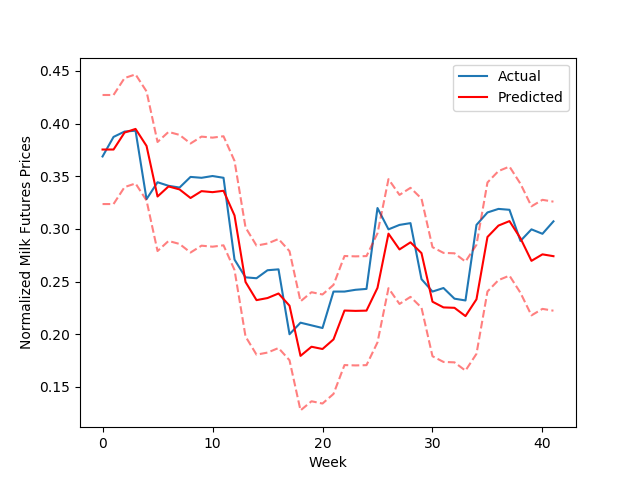
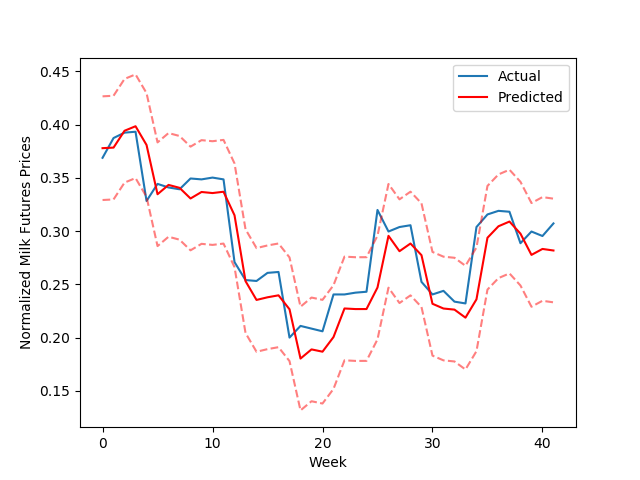
Adding Images

diff --git a/README.md b/README.md
@@ -86,7 +86,7 @@ The boxplot for Neurons does not show a clearly superior parameter setting.  The
 
 ![RNN Fit](https://github.com/FawcettB98/Milk_Futures/blob/master/images/rnn_act_v_pred.png)
 
-This plot shows the actual prices against the predicted prices, along with a margin of error for the predictions.
+This plot shows the actual prices against the predicted prices, along with a margin of error of one standard deviation for the predictions.
 
 The y-axis is the normalized price (converted to a number between 1 and 0), and the x-axis is the number of weeks since 12-04-2016
 
